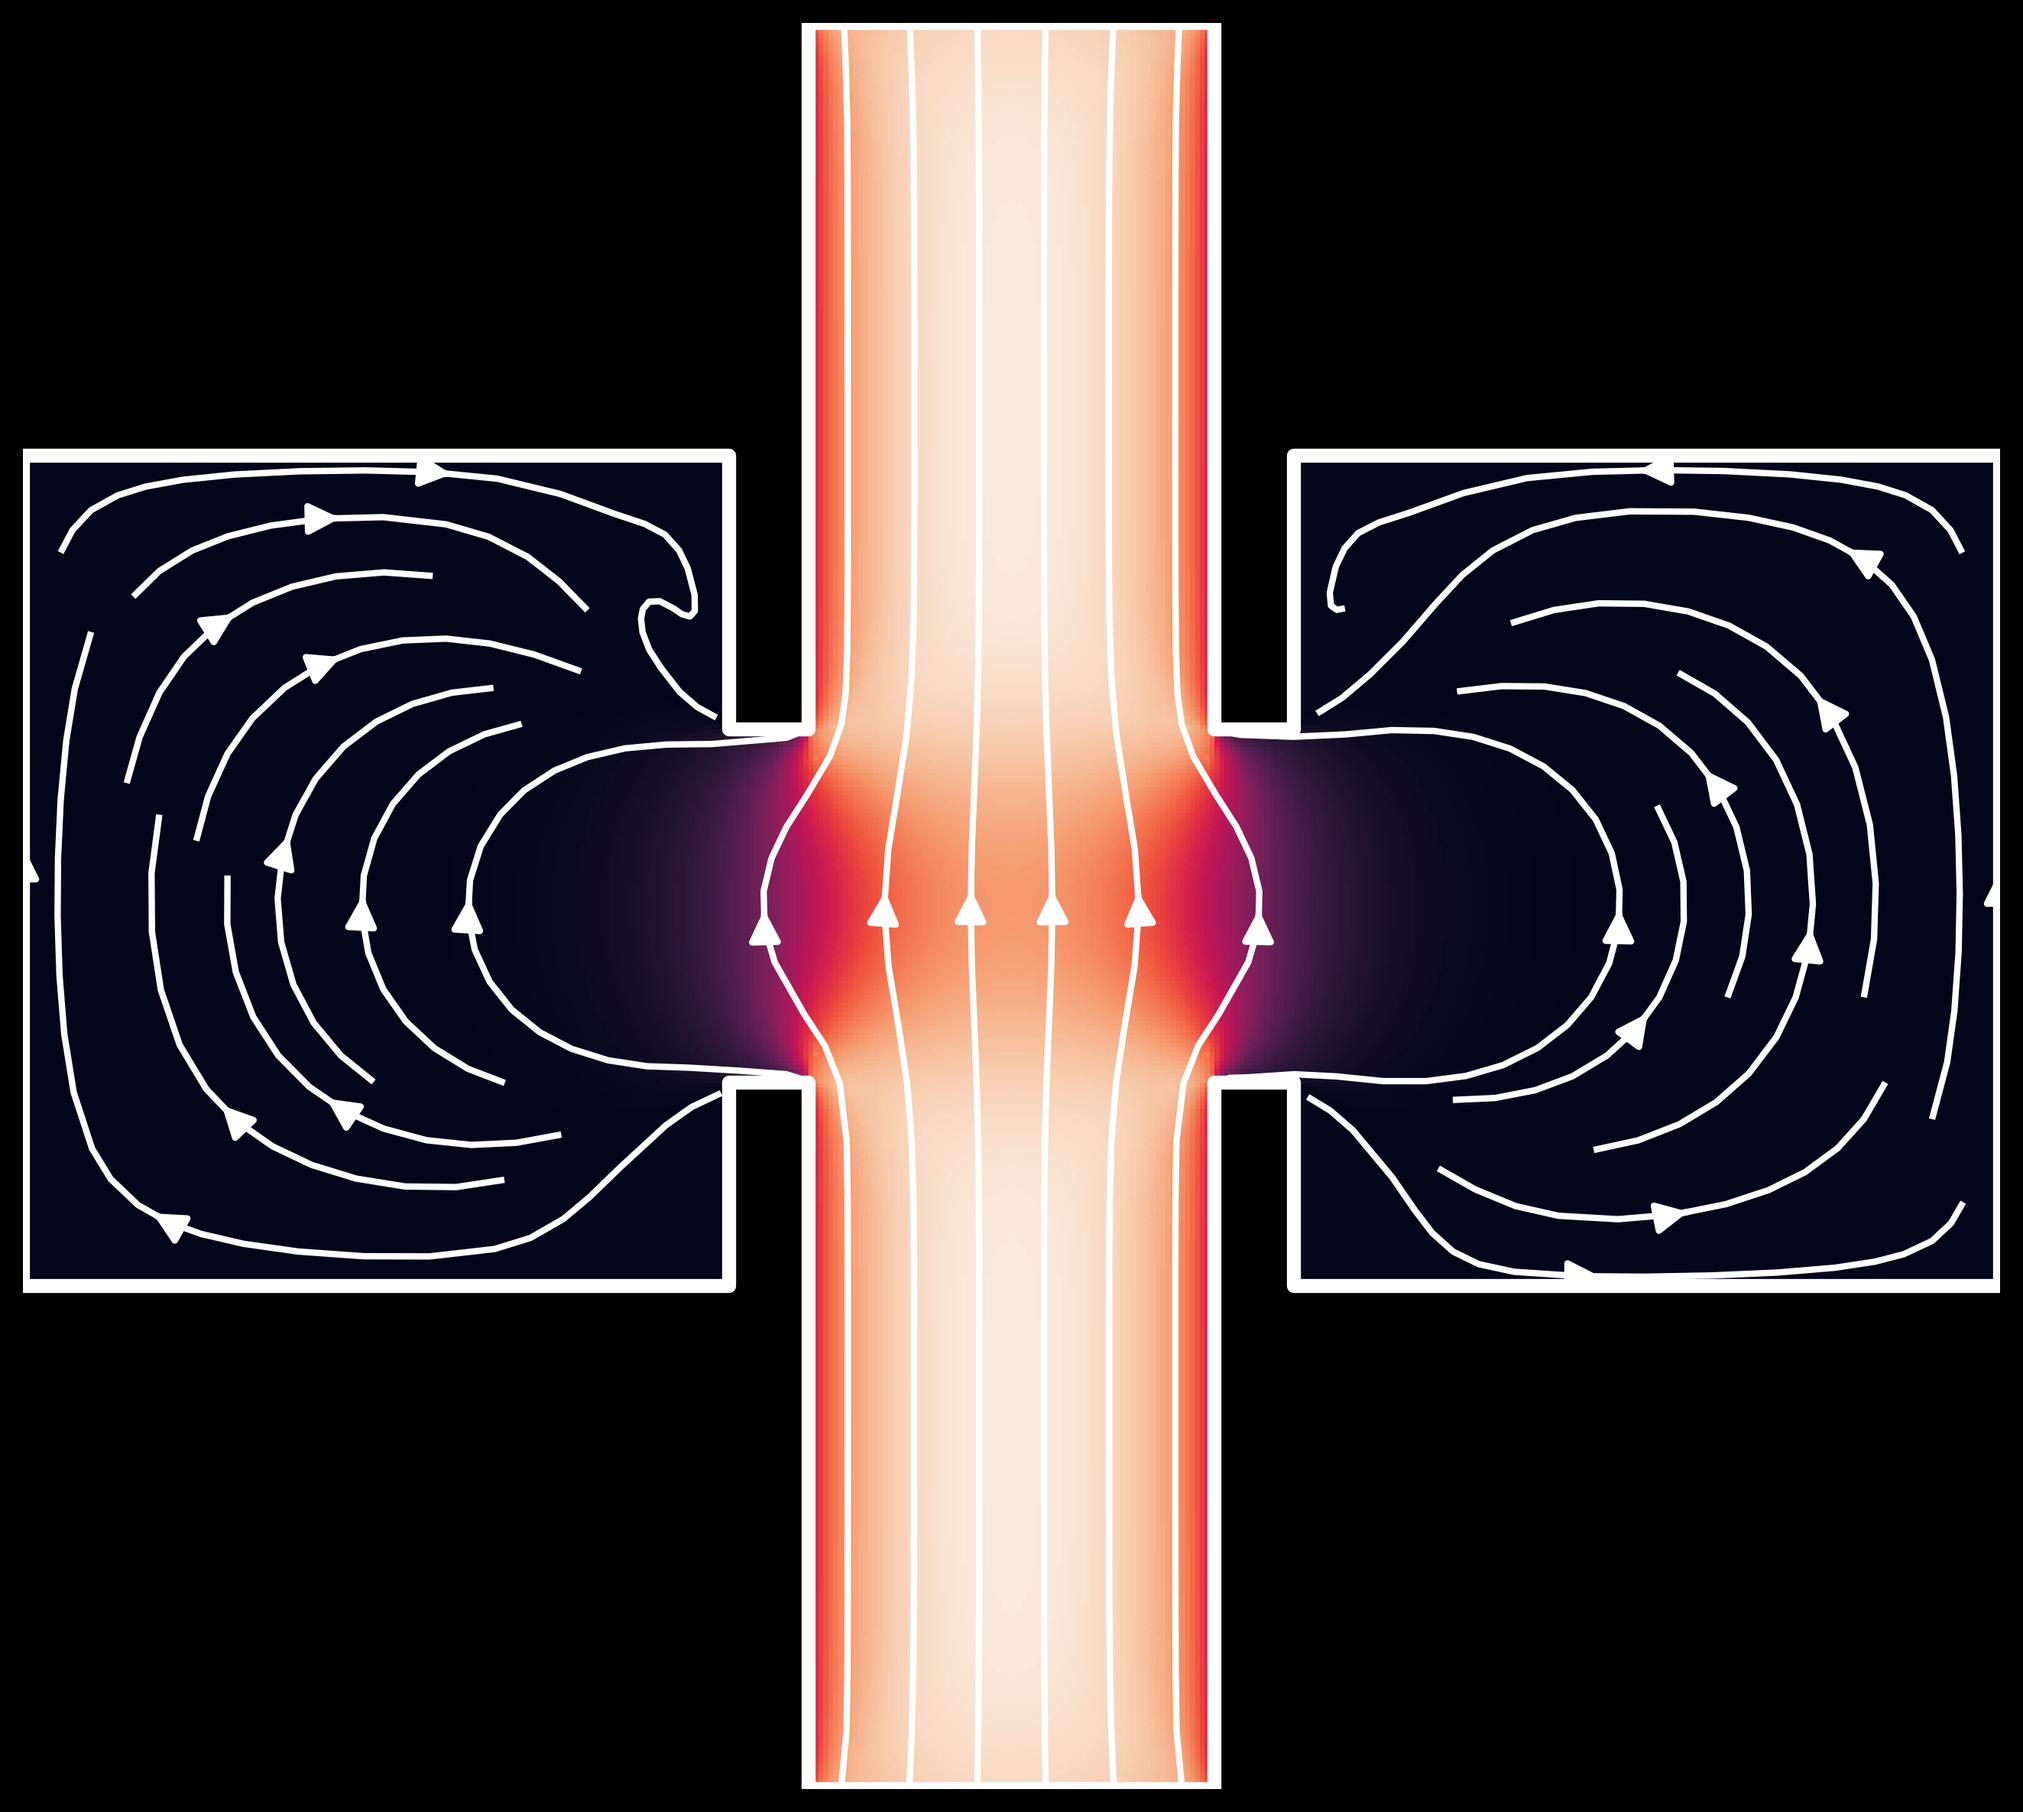
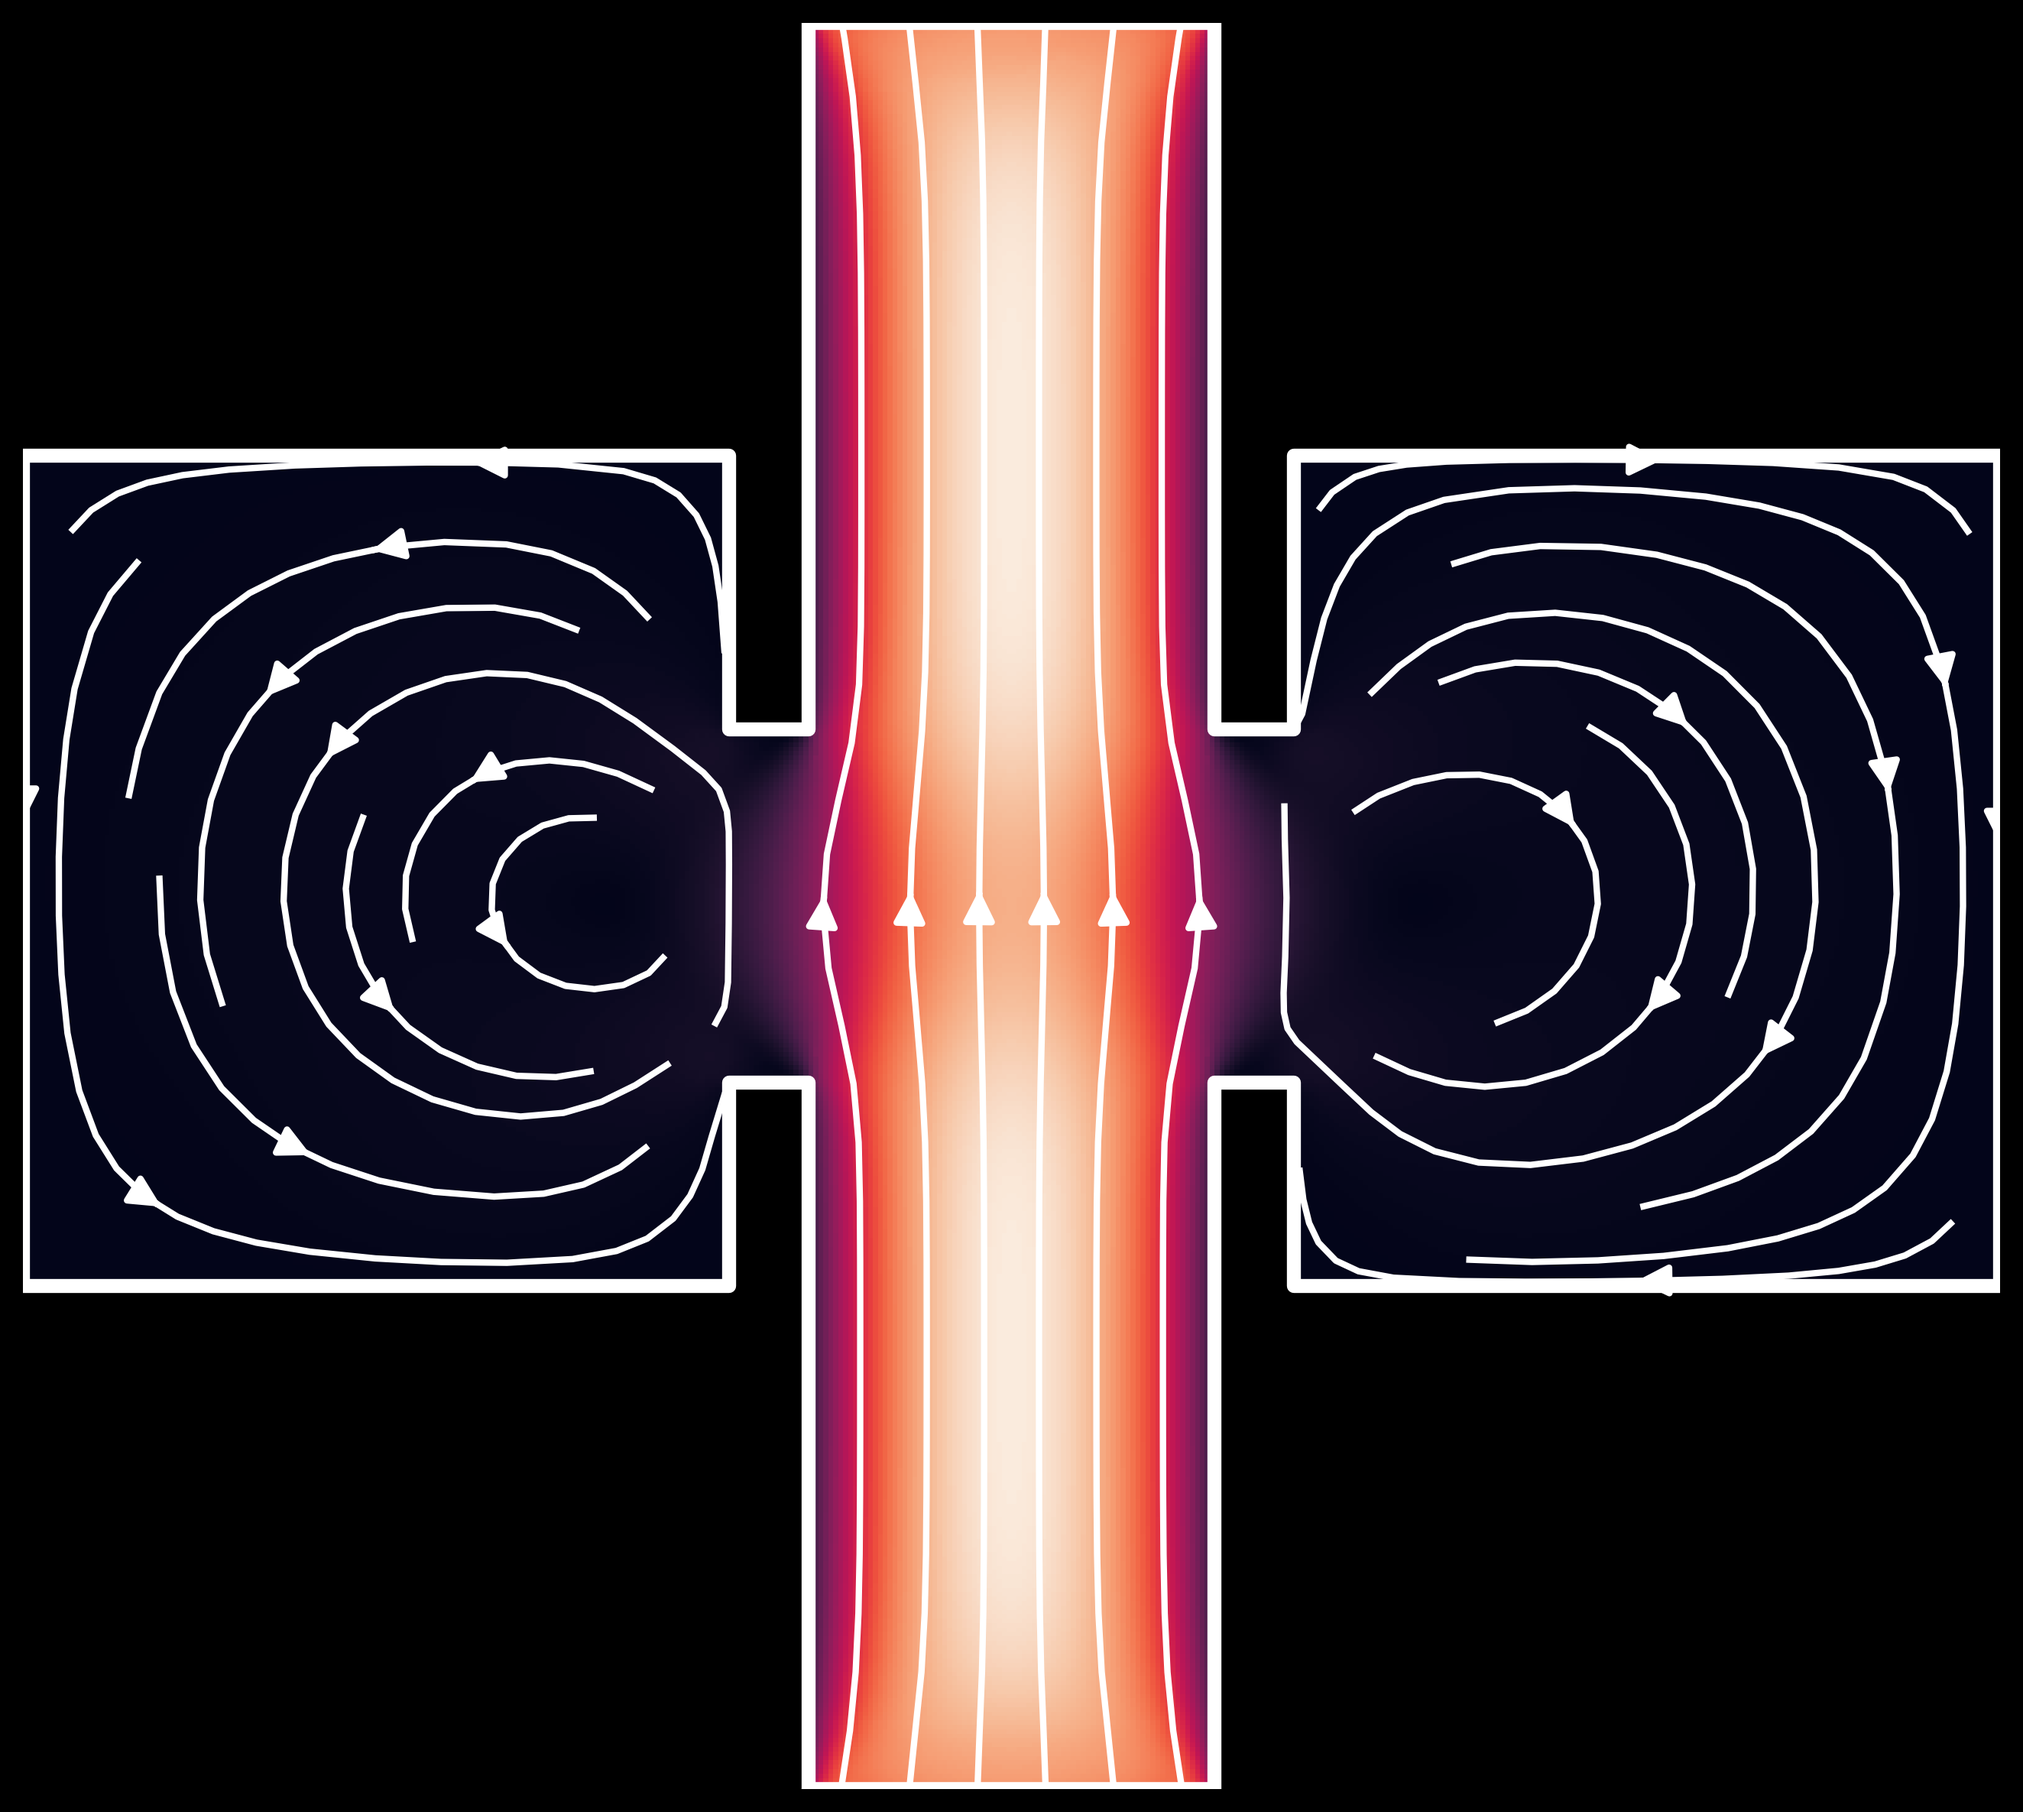
tes

diff --git a/demo/plot_regime_streamlines.py b/demo/plot_regime_streamlines.py
@@ -4,6 +4,7 @@ Plot current magnitude and streamlines for ballistic, hydrodynamic, and diffusiv
 
 from __future__ import annotations
 
+import os
 from pathlib import Path
 
 import h5py
@@ -46,7 +47,8 @@ def load_fields(path: Path) -> tuple[np.ndarray, np.ndarray, np.ndarray, np.ndar
 
 data_dir = Path(__file__).resolve().parent / "data"
 out_path = Path(__file__).resolve().parent / "streamlines.png"
-hydro_out_path = Path(__file__).resolve().parent / "hydrodynamic_streamlines.png"
+single_regime = os.environ.get("FERMI_STREAM_SINGLE_REGIME", "hydrodynamic")
+single_out_path = Path(__file__).resolve().parent / f"{single_regime}_streamlines.png"
 dpi = 300
 preferred_order = ["diffusive", "hydrodynamic", "intermediate", "ballistic"]
 regimes = [name for name in preferred_order if (data_dir / f"{name}.h5").is_file()]
@@ -148,35 +150,35 @@ if last_pcm is not None:
 fig.savefig(out_path, dpi=dpi)
 print(f"saved: {out_path}")
 
-# Single-panel hydrodynamic image for presentations/figures.
-hydro_path = data_dir / "hydrodynamic.h5"
-if not hydro_path.is_file():
-    raise FileNotFoundError(f"Missing file: {hydro_path}")
+# Single-panel black-background image for presentations/figures.
+single_path = data_dir / f"{single_regime}.h5"
+if not single_path.is_file():
+    raise FileNotFoundError(f"Missing file: {single_path}")
 
-x_h, y_h, u_h, v_h = load_fields(hydro_path)
-line_current_h = integrated_current_at_x(x_h, y_h, v_h, x_cut=x_cut)
-line_scale_h = max(abs(line_current_h), 1e-14)
-u_h_norm = u_h / line_scale_h
-v_h_norm = v_h / line_scale_h
-speed_h = np.hypot(u_h_norm, v_h_norm)
-speed_h_masked = np.ma.masked_invalid(speed_h)
-u_h_masked = np.ma.masked_invalid(u_h_norm)
-v_h_masked = np.ma.masked_invalid(v_h_norm)
-local_h_max = float(np.nanmax(speed_h)) if np.isfinite(np.nanmax(speed_h)) else 1.0
-if local_h_max <= 0:
-    local_h_max = 1.0
+x_s, y_s, u_s, v_s = load_fields(single_path)
+line_current_s = integrated_current_at_x(x_s, y_s, v_s, x_cut=x_cut)
+line_scale_s = max(abs(line_current_s), 1e-14)
+u_s_norm = u_s / line_scale_s
+v_s_norm = v_s / line_scale_s
+speed_s = np.hypot(u_s_norm, v_s_norm)
+speed_s_masked = np.ma.masked_invalid(speed_s)
+u_s_masked = np.ma.masked_invalid(u_s_norm)
+v_s_masked = np.ma.masked_invalid(v_s_norm)
+local_s_max = float(np.nanmax(speed_s)) if np.isfinite(np.nanmax(speed_s)) else 1.0
+if local_s_max <= 0:
+    local_s_max = 1.0
 
-fig_h, ax_h = plt.subplots(figsize=(6.5, 5.0), constrained_layout=False)
-fig_h.patch.set_facecolor("black")
-ax_h.set_facecolor("black")
-ax_h.pcolormesh(
-    x_h, y_h, speed_h_masked, cmap=cmap_rocket, shading="auto", vmin=0.0, vmax=local_h_max
+fig_s, ax_s = plt.subplots(figsize=(6.5, 5.0), constrained_layout=False)
+fig_s.patch.set_facecolor("black")
+ax_s.set_facecolor("black")
+ax_s.pcolormesh(
+    x_s, y_s, speed_s_masked, cmap=cmap_rocket, shading="auto", vmin=0.0, vmax=local_s_max
 )
-ax_h.streamplot(
-    x_h,
-    y_h,
-    u_h_masked,
-    v_h_masked,
+ax_s.streamplot(
+    x_s,
+    y_s,
+    u_s_masked,
+    v_s_masked,
     color="white",
     density=1.0,
     linewidth=1.0,
@@ -184,13 +186,13 @@ ax_h.streamplot(
     minlength=0.2,
     integration_direction="both",
 )
-ax_h.set_xlim(float(x_h.min()), float(x_h.max()))
-ax_h.set_ylim(float(y_h.min()), float(y_h.max()))
-ax_h.set_xticks([])
-ax_h.set_yticks([])
-for spine in ax_h.spines.values():
+ax_s.set_xlim(float(x_s.min()), float(x_s.max()))
+ax_s.set_ylim(float(y_s.min()), float(y_s.max()))
+ax_s.set_xticks([])
+ax_s.set_yticks([])
+for spine in ax_s.spines.values():
     spine.set_visible(False)
-ax_h.set_aspect("equal")
+ax_s.set_aspect("equal")
 
-fig_h.savefig(hydro_out_path, dpi=600, facecolor=fig_h.get_facecolor(), edgecolor="none")
-print(f"saved: {hydro_out_path}")
+fig_s.savefig(single_out_path, dpi=600, facecolor=fig_s.get_facecolor(), edgecolor="none")
+print(f"saved: {single_out_path}")
